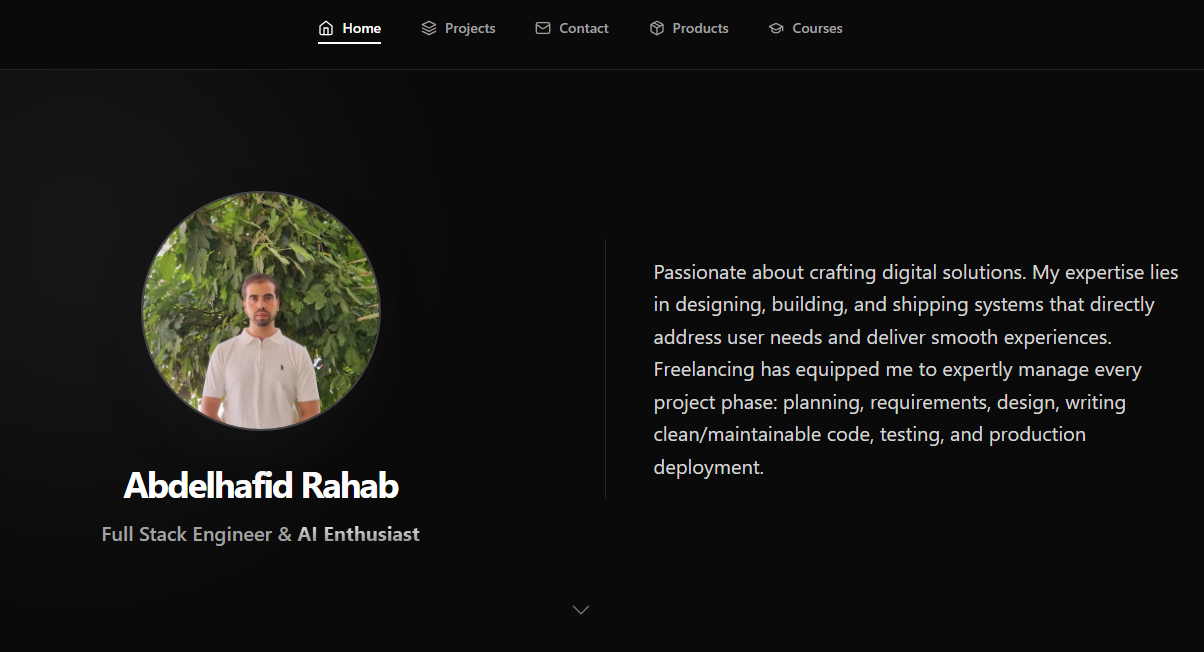
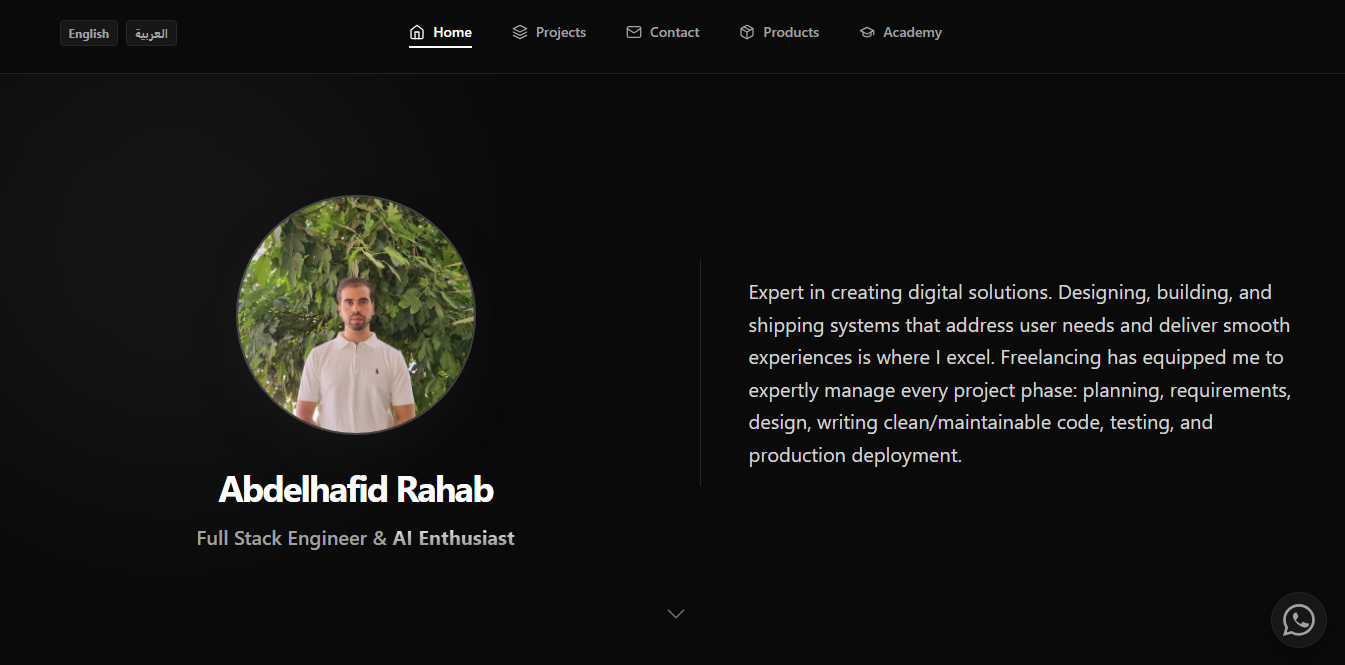
feat(seo+a11y): enhance metadata, create sitemap.ts & robots.ts and add visual structure and accessibility

diff --git a/src/components/Navbar.tsx b/src/components/Navbar.tsx
@@ -7,19 +7,19 @@ import { useTranslations } from "next-intl";
 
 const Icons = {
   Home: ({ className }: { className?: string }) => (
-    <svg xmlns="http://www.w3.org/2000/svg" viewBox="0 0 24 24" fill="none" stroke="currentColor" strokeWidth="2" strokeLinecap="round" strokeLinejoin="round" className={className}><path d="m3 9 9-7 9 7v11a2 2 0 0 1-2 2H5a2 2 0 0 1-2-2z" /><polyline points="9 22 9 12 15 12 15 22" /></svg>
+    <svg aria-hidden="true" xmlns="http://www.w3.org/2000/svg" viewBox="0 0 24 24" fill="none" stroke="currentColor" strokeWidth="2" strokeLinecap="round" strokeLinejoin="round" className={className}><path d="m3 9 9-7 9 7v11a2 2 0 0 1-2 2H5a2 2 0 0 1-2-2z" /><polyline points="9 22 9 12 15 12 15 22" /></svg>
   ),
   Projects: ({ className }: { className?: string }) => (
-    <svg xmlns="http://www.w3.org/2000/svg" viewBox="0 0 24 24" fill="none" stroke="currentColor" strokeWidth="2" strokeLinecap="round" strokeLinejoin="round" className={className}><polygon points="12 2 2 7 12 12 22 7 12 2" /><polyline points="2 17 12 22 22 17" /><polyline points="2 12 12 17 22 12" /></svg>
+    <svg aria-hidden="true" xmlns="http://www.w3.org/2000/svg" viewBox="0 0 24 24" fill="none" stroke="currentColor" strokeWidth="2" strokeLinecap="round" strokeLinejoin="round" className={className}><polygon points="12 2 2 7 12 12 22 7 12 2" /><polyline points="2 17 12 22 22 17" /><polyline points="2 12 12 17 22 12" /></svg>
   ),
   Contact: ({ className }: { className?: string }) => (
-    <svg xmlns="http://www.w3.org/2000/svg" viewBox="0 0 24 24" fill="none" stroke="currentColor" strokeWidth="2" strokeLinecap="round" strokeLinejoin="round" className={className}><rect width="20" height="16" x="2" y="4" rx="2" /><path d="m22 7-8.97 5.7a1.94 1.94 0 0 1-2.06 0L2 7" /></svg>
+    <svg aria-hidden="true" xmlns="http://www.w3.org/2000/svg" viewBox="0 0 24 24" fill="none" stroke="currentColor" strokeWidth="2" strokeLinecap="round" strokeLinejoin="round" className={className}><rect width="20" height="16" x="2" y="4" rx="2" /><path d="m22 7-8.97 5.7a1.94 1.94 0 0 1-2.06 0L2 7" /></svg>
   ),
   Products: ({ className }: { className?: string }) => (
-    <svg xmlns="http://www.w3.org/2000/svg" viewBox="0 0 24 24" fill="none" stroke="currentColor" strokeWidth="2" strokeLinecap="round" strokeLinejoin="round" className={className}><path d="m7.5 4.27 9 5.15" /><path d="M21 8a2 2 0 0 0-1-1.73l-7-4a2 2 0 0 0-2 0l-7 4A2 2 0 0 0 3 8v8a2 2 0 0 0 1 1.73l7 4a2 2 0 0 0 2 0l7-4A2 2 0 0 0 21 16Z" /><path d="m3.3 7 8.7 5 8.7-5" /><path d="M12 22v-10" /></svg>
+    <svg aria-hidden="true" xmlns="http://www.w3.org/2000/svg" viewBox="0 0 24 24" fill="none" stroke="currentColor" strokeWidth="2" strokeLinecap="round" strokeLinejoin="round" className={className}><path d="m7.5 4.27 9 5.15" /><path d="M21 8a2 2 0 0 0-1-1.73l-7-4a2 2 0 0 0-2 0l-7 4A2 2 0 0 0 3 8v8a2 2 0 0 0 1 1.73l7 4a2 2 0 0 0 2 0l7-4A2 2 0 0 0 21 16Z" /><path d="m3.3 7 8.7 5 8.7-5" /><path d="M12 22v-10" /></svg>
   ),
   Academy: ({ className }: { className?: string }) => (
-    <svg xmlns="http://www.w3.org/2000/svg" viewBox="0 0 24 24" fill="none" stroke="currentColor" strokeWidth="2" strokeLinecap="round" strokeLinejoin="round" className={className}><path d="M22 10v6M2 10l10-5 10 5-10 5z" /><path d="M6 12v5c3 3 9 3 12 0v-5" /></svg>
+    <svg aria-hidden="true" xmlns="http://www.w3.org/2000/svg" viewBox="0 0 24 24" fill="none" stroke="currentColor" strokeWidth="2" strokeLinecap="round" strokeLinejoin="round" className={className}><path d="M22 10v6M2 10l10-5 10 5-10 5z" /><path d="M6 12v5c3 3 9 3 12 0v-5" /></svg>
   ),
 };
 
@@ -54,8 +54,8 @@ export const Navbar = () => {
 
         {/* Language Switcher (Desktop: Absolute Left) */}
         <div className="hidden md:flex absolute left-6 gap-2">
-          <button onClick={() => switchLanguage('en')} className="text-xs font-bold px-2 py-1 rounded bg-neutral-900 text-neutral-400 hover:text-white border border-neutral-800">{t('english')}</button>
-          <button onClick={() => switchLanguage('ar')} className="text-xs font-bold px-2 py-1 rounded bg-neutral-900 text-neutral-400 hover:text-white border border-neutral-800">{t('arabic')}</button>
+          <button onClick={() => switchLanguage('en')} className="text-xs font-bold px-2 py-1 rounded bg-neutral-900 text-neutral-400 hover:text-white border border-neutral-800" aria-label="Switch to English">{t('english')}</button>
+          <button onClick={() => switchLanguage('ar')} className="text-xs font-bold px-2 py-1 rounded bg-neutral-900 text-neutral-400 hover:text-white border border-neutral-800" aria-label="Switch to Arabic">{t('arabic')}</button>
         </div>
 
         {/* Desktop Navigation */}
@@ -72,6 +72,7 @@ export const Navbar = () => {
                       ? "text-white border-white"
                       : "text-neutral-400 border-transparent hover:text-neutral-200 hover:border-neutral-700"}
                   `}
+                  aria-current={active ? 'page' : undefined}
                 >
                   <link.icon className="w-4 h-4" />
                   {link.name}
@@ -85,21 +86,23 @@ export const Navbar = () => {
         <div className="md:hidden flex w-full justify-end">
           {/* Language Switcher (Mobile) */}
           <div className="flex gap-2">
-            <button onClick={() => switchLanguage('en')} className="text-xs font-bold px-2 py-1 rounded bg-neutral-900 text-neutral-400 hover:text-white border border-neutral-800">English</button>
-            <button onClick={() => switchLanguage('ar')} className="text-xs font-bold px-2 py-1 rounded bg-neutral-900 text-neutral-400 hover:text-white border border-neutral-800">العربية</button>
+            <button onClick={() => switchLanguage('en')} className="text-xs font-bold px-2 py-1 rounded bg-neutral-900 text-neutral-400 hover:text-white border border-neutral-800" aria-label="Switch to English">English</button>
+            <button onClick={() => switchLanguage('ar')} className="text-xs font-bold px-2 py-1 rounded bg-neutral-900 text-neutral-400 hover:text-white border border-neutral-800" aria-label="Switch to Arabic">العربية</button>
           </div>
 
           <button
             onClick={() => setIsOpen(!isOpen)}
             className="relative z-50 text-neutral-300 hover:text-white transition-colors p-2"
             aria-label="Toggle menu"
+            aria-controls="mobile-menu"
+            aria-expanded={isOpen}
           >
             {isOpen ? (
-              <svg xmlns="http://www.w3.org/2000/svg" fill="none" viewBox="0 0 24 24" strokeWidth={1.5} stroke="currentColor" className="w-6 h-6">
+              <svg aria-hidden="true" xmlns="http://www.w3.org/2000/svg" fill="none" viewBox="0 0 24 24" strokeWidth={1.5} stroke="currentColor" className="w-6 h-6">
                 <path strokeLinecap="round" strokeLinejoin="round" d="M6 18L18 6M6 6l12 12" />
               </svg>
             ) : (
-              <svg xmlns="http://www.w3.org/2000/svg" fill="none" viewBox="0 0 24 24" strokeWidth={1.5} stroke="currentColor" className="w-6 h-6">
+              <svg aria-hidden="true" xmlns="http://www.w3.org/2000/svg" fill="none" viewBox="0 0 24 24" strokeWidth={1.5} stroke="currentColor" className="w-6 h-6">
                 <path strokeLinecap="round" strokeLinejoin="round" d="M3.75 6.75h16.5M3.75 12h16.5m-16.5 5.25h16.5" />
               </svg>
             )}
@@ -107,7 +110,9 @@ export const Navbar = () => {
         </div>
 
         {/* Mobile Navigation Dropdown */}
-        <div className={`
+        <div
+          id="mobile-menu"
+          className={`
             fixed top-10 left-0 right-0 bottom-0 z-40 transform transition-transform duration-300 ease-in-out flex flex-col items-center justify-start pt-12 md:hidden
             ${isOpen ? "translate-x-0" : "translate-x-full"}
           `}>
@@ -125,6 +130,7 @@ export const Navbar = () => {
                         : "text-neutral-500 bg-black/95 backdrop-blur-sm hover:text-white"}
                     `}
                     onClick={() => setIsOpen(false)}
+                    aria-current={active ? 'page' : undefined}
                   >
                     <link.icon className="w-6 h-6" />
                     {link.name}

diff --git a/src/components/ProjectCard.tsx b/src/components/ProjectCard.tsx
@@ -37,7 +37,7 @@ export const ProjectCard = ({ project }: Props) => {
         {project.stats && (
           <div className="absolute bottom-3 start-3 z-10">
             <span className="flex items-center gap-1.5 px-3 py-1 text-xs font-bold bg-indigo-600/90 backdrop-blur-md text-white rounded-full shadow-lg">
-              <svg xmlns="http://www.w3.org/2000/svg" viewBox="0 0 24 24" fill="currentColor" className="w-3 h-3">
+              <svg aria-hidden="true" xmlns="http://www.w3.org/2000/svg" viewBox="0 0 24 24" fill="currentColor" className="w-3 h-3">
                 <path fillRule="evenodd" d="M14.615 1.595a.75.75 0 01.359.852L12.982 9.75h7.268a.75.75 0 01.548 1.262l-10.5 11.25a.75.75 0 01-1.272-.71l1.992-7.302H3.75a.75.75 0 01-.548-1.262l10.5-11.25a.75.75 0 01.913-.143z" clipRule="evenodd" />
               </svg>
               {t(`${project.id}.stats`)}
@@ -61,16 +61,16 @@ export const ProjectCard = ({ project }: Props) => {
           <p className="text-xs font-semibold text-neutral-500 uppercase tracking-wider mb-3">
             {t('tech_used')}
           </p>
-          <div className="flex flex-wrap gap-2">
+          <ul className="flex flex-wrap gap-2">
             {project.techStack.map((tech) => (
-              <span
+              <li
                 key={tech}
                 className="px-2.5 py-1 text-xs font-medium text-neutral-300 bg-neutral-800/50 border border-neutral-700 rounded hover:text-white transition-colors"
               >
                 {tech}
-              </span>
+              </li>
             ))}
-          </div>
+          </ul>
         </div>
 
         {/* Action Buttons */}
@@ -81,7 +81,7 @@ export const ProjectCard = ({ project }: Props) => {
               target="_blank"
               className="flex-1 flex items-center justify-center gap-2 px-4 py-2.5 rounded-lg bg-white text-black text-sm font-semibold hover:bg-neutral-200 transition-colors"
             >
-              <svg xmlns="http://www.w3.org/2000/svg" viewBox="0 0 24 24" fill="none" stroke="currentColor" strokeWidth="2" strokeLinecap="round" strokeLinejoin="round" className="w-4 h-4"><path d="M18 13v6a2 2 0 0 1-2 2H5a2 2 0 0 1-2-2V8a2 2 0 0 1 2-2h6" /><polyline points="15 3 21 3 21 9" /><line x1="10" y1="14" x2="21" y2="3" /></svg>
+              <svg aria-hidden="true" xmlns="http://www.w3.org/2000/svg" viewBox="0 0 24 24" fill="none" stroke="currentColor" strokeWidth="2" strokeLinecap="round" strokeLinejoin="round" className="w-4 h-4"><path d="M18 13v6a2 2 0 0 1-2 2H5a2 2 0 0 1-2-2V8a2 2 0 0 1 2-2h6" /><polyline points="15 3 21 3 21 9" /><line x1="10" y1="14" x2="21" y2="3" /></svg>
               {t('live_demo')}
             </Link>
           )}
@@ -92,7 +92,7 @@ export const ProjectCard = ({ project }: Props) => {
               target="_blank"
               className="flex-1 flex items-center justify-center gap-2 px-4 py-2.5 rounded-lg border border-neutral-700 text-neutral-300 text-sm font-medium hover:text-white hover:bg-neutral-800 transition-colors"
             >
-              <svg xmlns="http://www.w3.org/2000/svg" viewBox="0 0 24 24" fill="none" stroke="currentColor" strokeWidth="2" strokeLinecap="round" strokeLinejoin="round" className="w-4 h-4"><path d="M9 19c-5 1.5-5-2.5-7-3m14 6v-3.87a3.37 3.37 0 0 0-.94-2.61c3.14-.35 6.44-1.54 6.44-7A5.44 5.44 0 0 0 20 4.77 5.07 5.07 0 0 0 19.91 1S18.73.65 16 2.48a13.38 13.38 0 0 0-7 0C6.27.65 5.09 1 5.09 1A5.07 5.07 0 0 0 5 4.77a5.44 5.44 0 0 0-1.5 3.78c0 5.42 3.3 6.61 6.44 7A3.37 3.37 0 0 0 9 18.13V22" /></svg>
+              <svg aria-hidden="true" xmlns="http://www.w3.org/2000/svg" viewBox="0 0 24 24" fill="none" stroke="currentColor" strokeWidth="2" strokeLinecap="round" strokeLinejoin="round" className="w-4 h-4"><path d="M9 19c-5 1.5-5-2.5-7-3m14 6v-3.87a3.37 3.37 0 0 0-.94-2.61c3.14-.35 6.44-1.54 6.44-7A5.44 5.44 0 0 0 20 4.77 5.07 5.07 0 0 0 19.91 1S18.73.65 16 2.48a13.38 13.38 0 0 0-7 0C6.27.65 5.09 1 5.09 1A5.07 5.07 0 0 0 5 4.77a5.44 5.44 0 0 0-1.5 3.78c0 5.42 3.3 6.61 6.44 7A3.37 3.37 0 0 0 9 18.13V22" /></svg>
               {t('view_code')}
             </Link>
           )}

diff --git a/src/components/WhatsAppButton.tsx b/src/components/WhatsAppButton.tsx
@@ -16,10 +16,11 @@ export const WhatsAppButton = () => {
       aria-label={t('ariaLabel')}
     >
       {/* Pulse Effect */}
-      <span className="absolute inline-flex h-full w-full rounded-full bg-neutral-700 opacity-20 animate-ping group-hover:hidden"></span>
+      <span className="absolute inline-flex h-full w-full rounded-full bg-neutral-700 opacity-20 animate-ping group-hover:hidden" aria-hidden="true"></span>
 
       {/* Icon relative to stay on top */}
       <svg
+        aria-hidden="true"
         xmlns="http://www.w3.org/2000/svg"
         width="32"
         height="32"
@@ -27,7 +28,7 @@ export const WhatsAppButton = () => {
         fill="currentColor"
         className="relative"
       >
-        <path d="M13.601 2.326A7.854 7.854 0 0 0 7.994 0C3.627 0 .068 3.558.064 7.926c0 1.399.366 2.76 1.057 3.965L0 16l4.204-1.102a7.9 7.9 0 0 0 3.79.965h.004c4.368 0 7.926-3.558 7.93-7.93A7.898 7.898 0 0 0 13.6 2.326zM7.994 14.521a6.573 6.573 0 0 1-3.356-.92l-.24-.144-2.494.654.666-2.433-.156-.251a6.56 6.56 0 0 1-1.007-3.505c0-3.626 2.957-6.584 6.591-6.584a6.56 6.56 0 0 1 4.66 1.931 6.557 6.557 0 0 1 1.928 4.66c-.004 3.639-2.961 6.592-6.592 6.592zm3.615-4.934c-.197-.099-1.17-.578-1.353-.646-.182-.065-.315-.099-.445.099-.133.197-.513.646-.627.775-.114.133-.232.148-.43.05-.197-.1-.836-.308-1.592-.985-.59-.525-.985-1.175-1.103-1.372-.114-.198-.011-.304.088-.403.087-.088.197-.232.296-.346.1-.114.133-.198.198-.33.065-.134.034-.248-.015-.347-.05-.099-.445-1.076-.612-1.47-.16-.389-.323-.335-.445-.34-.114-.007-.247-.007-.38-.007a.729.729 0 0 0-.529.247c-.182.198-.691.677-.691 1.654 0 .977.71 1.916.81 2.049.098.133 1.394 2.132 3.383 2.992.47.205.84.326 1.129.418.475.152.904.129 1.246.08.38-.058 1.171-.48 1.338-.943.164-.464.164-.86.114-.943-.049-.084-.182-.133-.38-.232z" />
+        <path d="M13.601 2.326A7.854 7.854 0 0 0 7.994 0C3.627 0 .068 3.558.064 7.926c0 1.399.366 2.76 1.057 3.965L0 16l4.204-1.102a7.9 7.9 0 0 0 3.79.965h.004c4.368 0 7.926-3.558 7.93-7.93A7.898 7.898 0 0 0 13.6 2.326zM7.994 14.521a6.573 6.573 0 0 1-3.356-.92l-.24-.144-2.494.654.666-2.433-.156-.251a6.56 6.56 0 0 1-1.007-3.505c0-3.626 2.957-6.584 6.591-6.584a6.56 6.56 0 0 1 4.66 1.931 6.557 6.557 0 0 1 1.928 4.66c-.004 3.639-2.961 6.592-6.592 6.592zm3.615-4.934c-.197-.099-1.17-.578-1.353-.646-.182-.065-.315-.099-.445.099-.133.197-.513.646-.627.775-.114.133-.232.148-.43.05-.197-.1-.836-.308-1.592-.985-.59-.525-.985-1.171-.103-1.372-.114-.198-.011-.304.088-.403.087-.088.197-.232.296-.346.1-.114.133-.198.198-.33.065-.134.034-.248-.015-.347-.05-.099-.445-1.076-.612-1.47-.16-.389-.323-.335-.445-.34-.114-.007-.247-.007-.38-.007a.729.729 0 0 0-.529.247c-.182.198-.691.677-.691 1.654 0 .977.71 1.916.81 2.049.098.133 1.394 2.132 3.383 2.992.47.205.84.326 1.129.418.475.152.904.129 1.246.08.38-.058 1.171-.48 1.338-.943.164-.464.164-.86.114-.943-.049-.084-.182-.133-.38-.232z" />
       </svg>
     </Link>
   );

diff --git a/src/app/[locale]/layout.tsx b/src/app/[locale]/layout.tsx
@@ -6,6 +6,7 @@ import "../globals.css";
 import { NextIntlClientProvider } from 'next-intl';
 import { getMessages, getTranslations } from 'next-intl/server';
 import { WhatsAppButton } from "@/components/WhatsAppButton";
+import { JsonLd } from "@/components/JsonLd";
 
 const geistSans = Geist({
   variable: "--font-geist-sans",
@@ -29,10 +30,60 @@ export async function generateMetadata({
 }) {
   const { locale } = await params;
   const t = await getTranslations({ locale, namespace: 'Metadata' });
+  const baseUrl = 'https://abdelhafidrahab.net';
+  const url = `${baseUrl}/${locale}`;
 
   return {
-    title: t('title'),
-    description: t('description')
+    metadataBase: new URL(baseUrl),
+    title: {
+      default: t('title'),
+      template: `%s | ${t('title')}`
+    },
+    description: t('description'),
+    keywords: ["Full Stack Engineer", "Software Engineer", "Full Stack Developer", "Nest.js", "Angular.js", "React.js", "Next.js", "Node.js", "Flutter", "Abdelhafid Rahab", "Algeria", "Digital Solutions", "Expert"],
+    authors: [{ name: "Abdelhafid Rahab", url: baseUrl }],
+    creator: "Abdelhafid Rahab",
+    openGraph: {
+      type: "website",
+      locale: locale,
+      url: url,
+      title: t('title'),
+      description: t('description'),
+      siteName: "Abdelhafid Rahab",
+      images: [
+        {
+          url: "/personal-website.png", // Needs to be added to public
+          width: 1200,
+          height: 630,
+          alt: t('title'),
+        },
+      ],
+    },
+    twitter: {
+      card: "summary_large_image",
+      title: t('title'),
+      description: t('description'),
+      images: ["/personal-website.png"],
+      creator: "@AbdelhafidRahab",
+    },
+    alternates: {
+      canonical: url,
+      languages: {
+        'en': `${baseUrl}/en`,
+        'ar': `${baseUrl}/ar`,
+      },
+    },
+    robots: {
+      index: true,
+      follow: true,
+      googleBot: {
+        index: true,
+        follow: true,
+        "max-video-preview": -1,
+        "max-image-preview": "large",
+        "max-snippet": -1,
+      },
+    },
   };
 }
 
@@ -67,6 +118,7 @@ export default async function RootLayout({
     <html lang={locale} dir={direction} className="scroll-smooth">
       <body className={`${fontClass} antialiased bg-black text-neutral-200`}>
         <NextIntlClientProvider messages={messages}>
+          <JsonLd />
           <Navbar />
           {children}
           <WhatsAppButton />

diff --git a/src/components/Skills.tsx b/src/components/Skills.tsx
@@ -16,26 +16,26 @@ export const Skills = () => {
           {categories.map((category) => (
             <div key={category}>
               <h3 className="text-xl font-semibold text-white capitalize mb-6 flex items-center gap-3">
-                {t(`categories.${category}`)} <span className="h-px flex-1 bg-neutral-800"></span>
+                {t(`categories.${category}`)} <span className="h-px flex-1 bg-neutral-800" aria-hidden="true"></span>
               </h3>
-              <div className="flex flex-wrap gap-3">
+              <ul className="flex flex-wrap gap-3">
                 {skills
                   .filter((skill) => skill.category === category)
                   .map((skill) => (
-                    <div
+                    <li
                       key={skill.name}
                       className={`
                         px-4 py-2 text-sm font-medium rounded-lg transition-all duration-300
-                        ${skill.highlight 
-                          ? 'bg-neutral-100 text-black border border-white shadow-[0_0_15px_rgba(255,255,255,0.1)]' 
+                        ${skill.highlight
+                          ? 'bg-neutral-100 text-black border border-white shadow-[0_0_15px_rgba(255,255,255,0.1)]'
                           : 'bg-neutral-900/50 text-neutral-400 border border-neutral-800 hover:border-neutral-600 hover:text-white'}
                       `}
                     >
                       {/* Logic: Tech skills stay English, Soft skills get translated */}
                       {category === 'technical' ? skill.name : t(skill.name)}
-                    </div>
+                    </li>
                   ))}
-              </div>
+              </ul>
             </div>
           ))}
         </div>

diff --git a/src/app/[locale]/projects/page.tsx b/src/app/[locale]/projects/page.tsx
@@ -32,6 +32,7 @@ export default function ProjectsPage() {
           <div className="p-1 bg-neutral-900/50 border border-neutral-800 rounded-xl inline-flex">
             <button
               onClick={() => setActiveTab('proprietary')}
+              aria-pressed={activeTab === 'proprietary'}
               className={`
                 px-6 py-2.5 rounded-lg text-sm font-medium transition-all duration-300
                 ${activeTab === 'proprietary'
@@ -43,6 +44,7 @@ export default function ProjectsPage() {
             </button>
             <button
               onClick={() => setActiveTab('open-source')}
+              aria-pressed={activeTab === 'open-source'}
               className={`
                 px-6 py-2.5 rounded-lg text-sm font-medium transition-all duration-300
                 ${activeTab === 'open-source'

diff --git a/src/app/sitemap.ts b/src/app/sitemap.ts
@@ -1,0 +1,28 @@
+import { MetadataRoute } from 'next';
+import { routing } from '@/i18n/routing';
+
+export default function sitemap(): MetadataRoute.Sitemap {
+  const baseUrl = 'https://abdelhafidrahab.net';
+  const routes = ['', '/projects', '/contact', '/products', '/academy'];
+
+  const sitemapEntries: MetadataRoute.Sitemap = [];
+
+  routes.forEach((route) => {
+    routing.locales.forEach((locale) => {
+      sitemapEntries.push({
+        url: `${baseUrl}/${locale}${route}`,
+        lastModified: new Date(),
+        changeFrequency: 'weekly',
+        priority: route === '' ? 1 : 0.8,
+        alternates: {
+          languages: {
+            en: `${baseUrl}/en${route}`,
+            ar: `${baseUrl}/ar${route}`,
+          },
+        },
+      });
+    });
+  });
+
+  return sitemapEntries;
+}

diff --git a/src/components/JsonLd.tsx b/src/components/JsonLd.tsx
@@ -1,0 +1,26 @@
+export const JsonLd = () => {
+  const jsonLd = {
+    "@context": "https://schema.org",
+    "@type": "Person",
+    "name": "Abdelhafid Rahab",
+    "url": "https://abdelhafidrahab.net",
+    "sameAs": [
+      "https://github.com/AbdelhafidRahab",
+      "https://www.linkedin.com/in/abdelhafidrahab"
+
+    ],
+    "jobTitle": "Full Stack Engineer",
+    "worksFor": {
+      "@type": "Organization",
+      "name": "Self-Employed"
+    },
+    "description": "Full Stack Engineer & AI Enthusiast, expert in creating digital solutions."
+  };
+
+  return (
+    <script
+      type="application/ld+json"
+      dangerouslySetInnerHTML={{ __html: JSON.stringify(jsonLd) }}
+    />
+  );
+};

diff --git a/src/app/robots.ts b/src/app/robots.ts
@@ -1,0 +1,14 @@
+import { MetadataRoute } from 'next';
+
+export default function robots(): MetadataRoute.Robots {
+  const baseUrl = 'https://abdelhafidrahab.net';
+
+  return {
+    rules: {
+      userAgent: '*',
+      allow: '/',
+      disallow: ['/private/', '/admin/'],
+    },
+    sitemap: `${baseUrl}/sitemap.xml`,
+  };
+}
